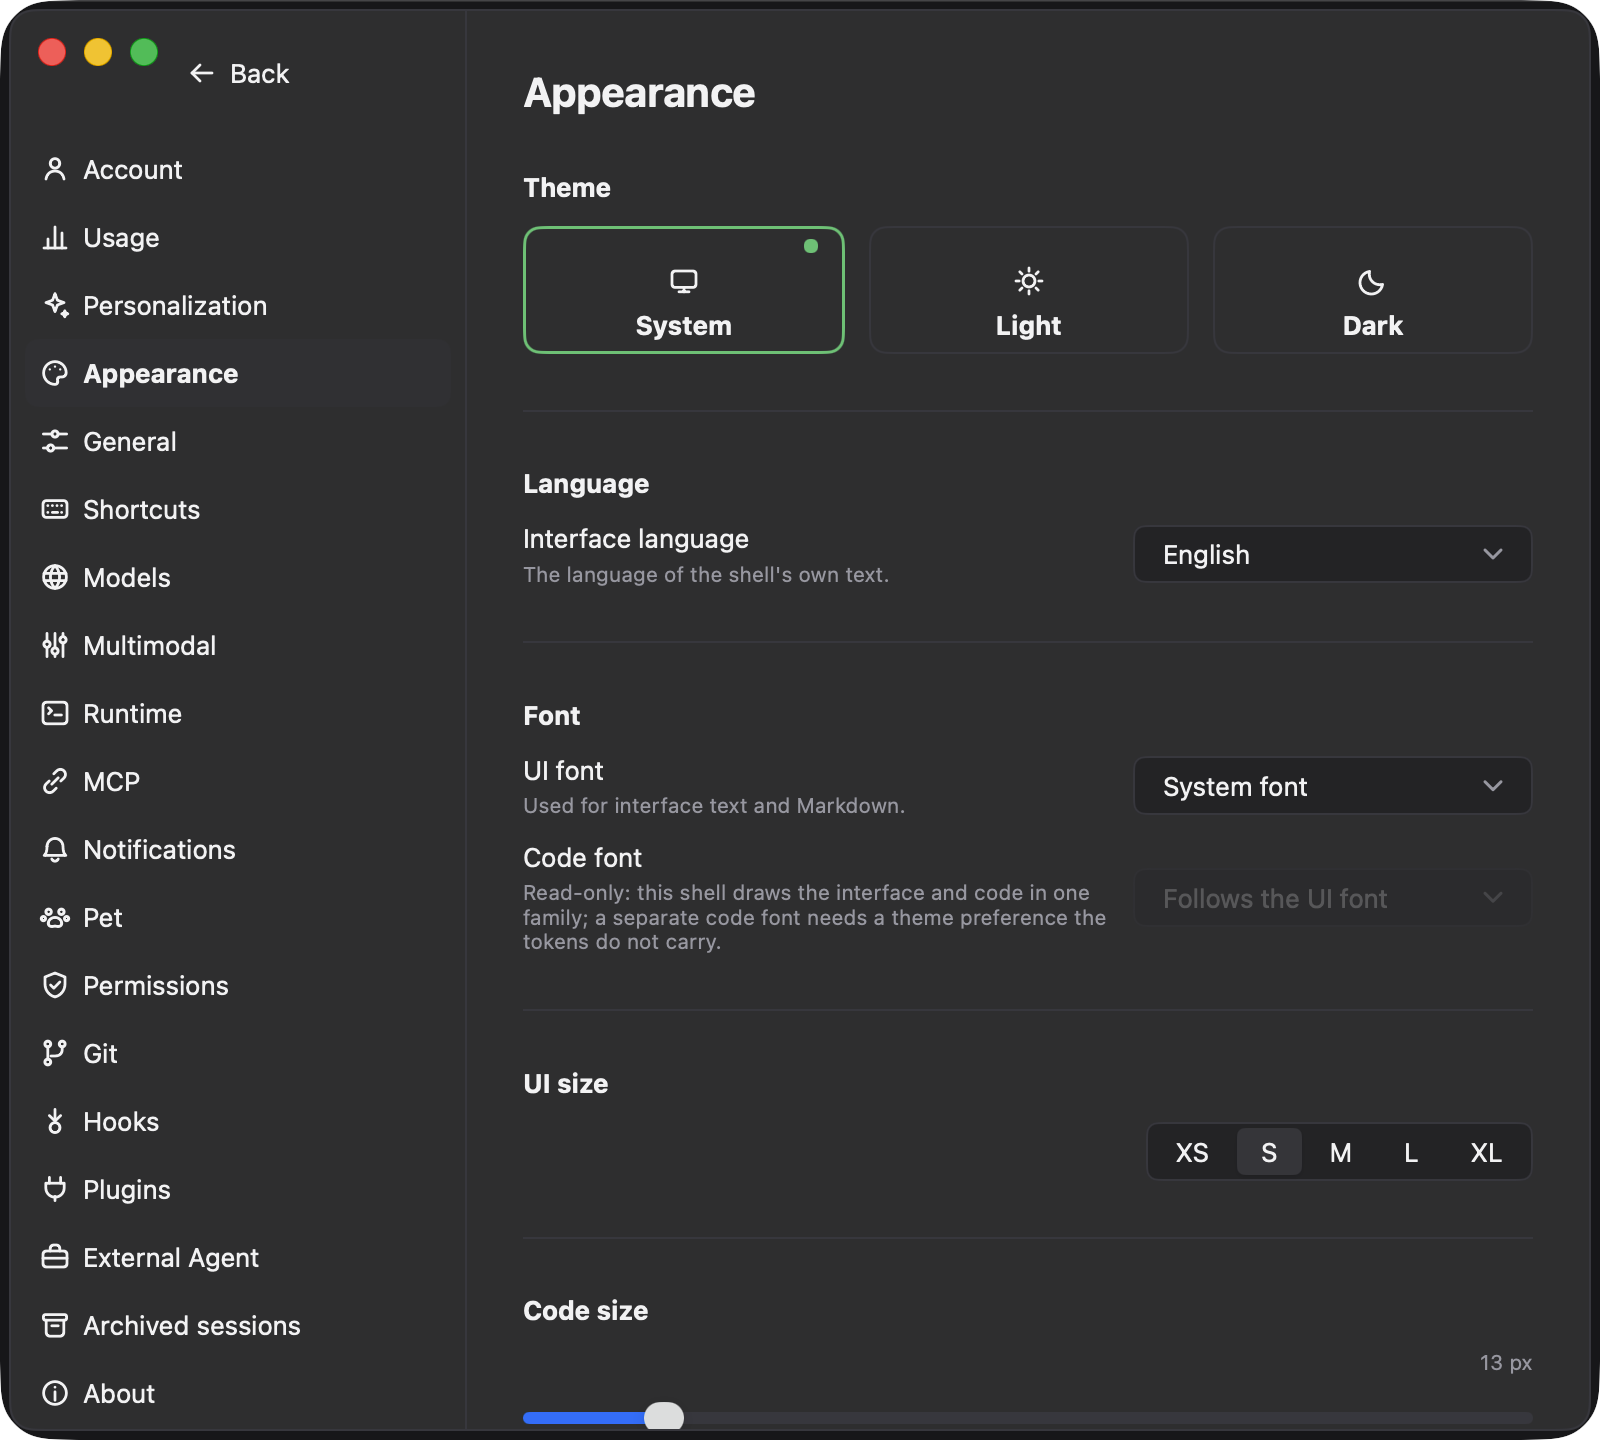
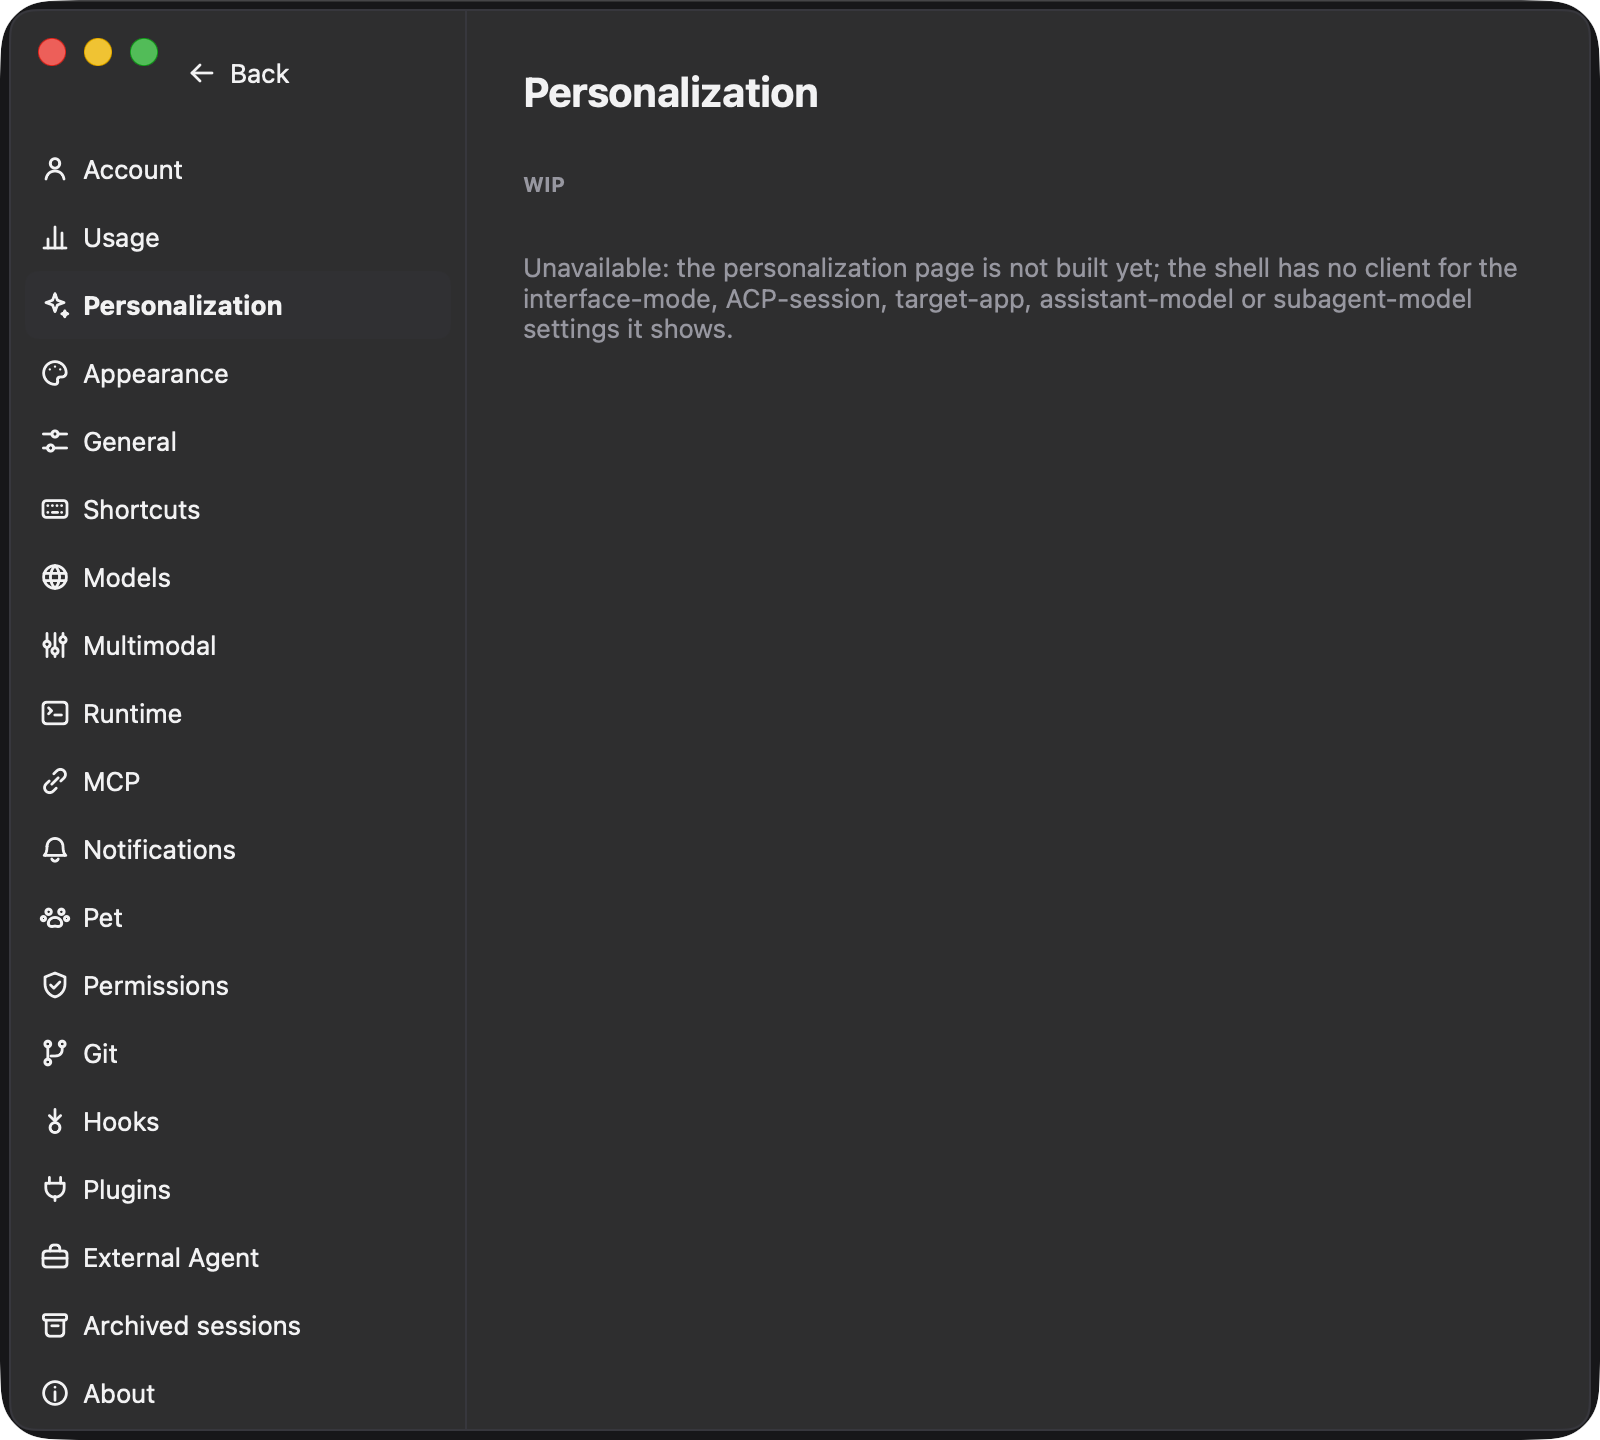
evidence: capture the personalization-first settings route

diff --git a/docs/ui-parity-review.md b/docs/ui-parity-review.md
@@ -50,7 +50,7 @@ Last updated: 2026-11-09
 
 ## 新路由与浮层（真实窗口，2026-11-10）
 
-- 设置路由：[`evidence/ui/mygo-settings-route.png`](evidence/ui/mygo-settings-route.png)。整窗替换侧栏/聊天壳，Back + 19 项图标导航 + Appearance 卡片/Select/Segmented/Slider；与参考 `window-settings-route.png` 结构一致。导航已对齐参考 19 项（Capabilities 内容并入 About）；差异：图标为近似线条、字体栅格、内容宽度。未命名会话在侧栏/面包屑/搜索显示本地化 Untitled。
+- 设置路由：[`evidence/ui/mygo-settings-route.png`](evidence/ui/mygo-settings-route.png)。整窗替换侧栏/聊天壳，Back + 19 项图标导航，默认落“个性化”；Appearance 卡片/Select/Segmented/Slider 与参考同构。导航已对齐参考 19 项（Capabilities 内容并入 About）；差异：图标为近似线条、字体栅格、内容宽度。未命名会话在侧栏/面包屑/搜索显示本地化 Untitled。
 - 全局搜索：[`evidence/ui/mygo-search.png`](evidence/ui/mygo-search.png)。⌘G 居中浮层、遮罩、最近聊天、行图标/标题/项目/⌘n；与参考 `window-search.png` 同构。差异：占位文案语言、无置顶分组。
 - 会话内查找：[`evidence/ui/mygo-thread-search.png`](evidence/ui/mygo-thread-search.png)。⌘F 顶栏查找条、0/0 计数、上/下/关闭；参考 ThreadSearchBar 未采集截图，结构按源码实现，待参考帧。
 
